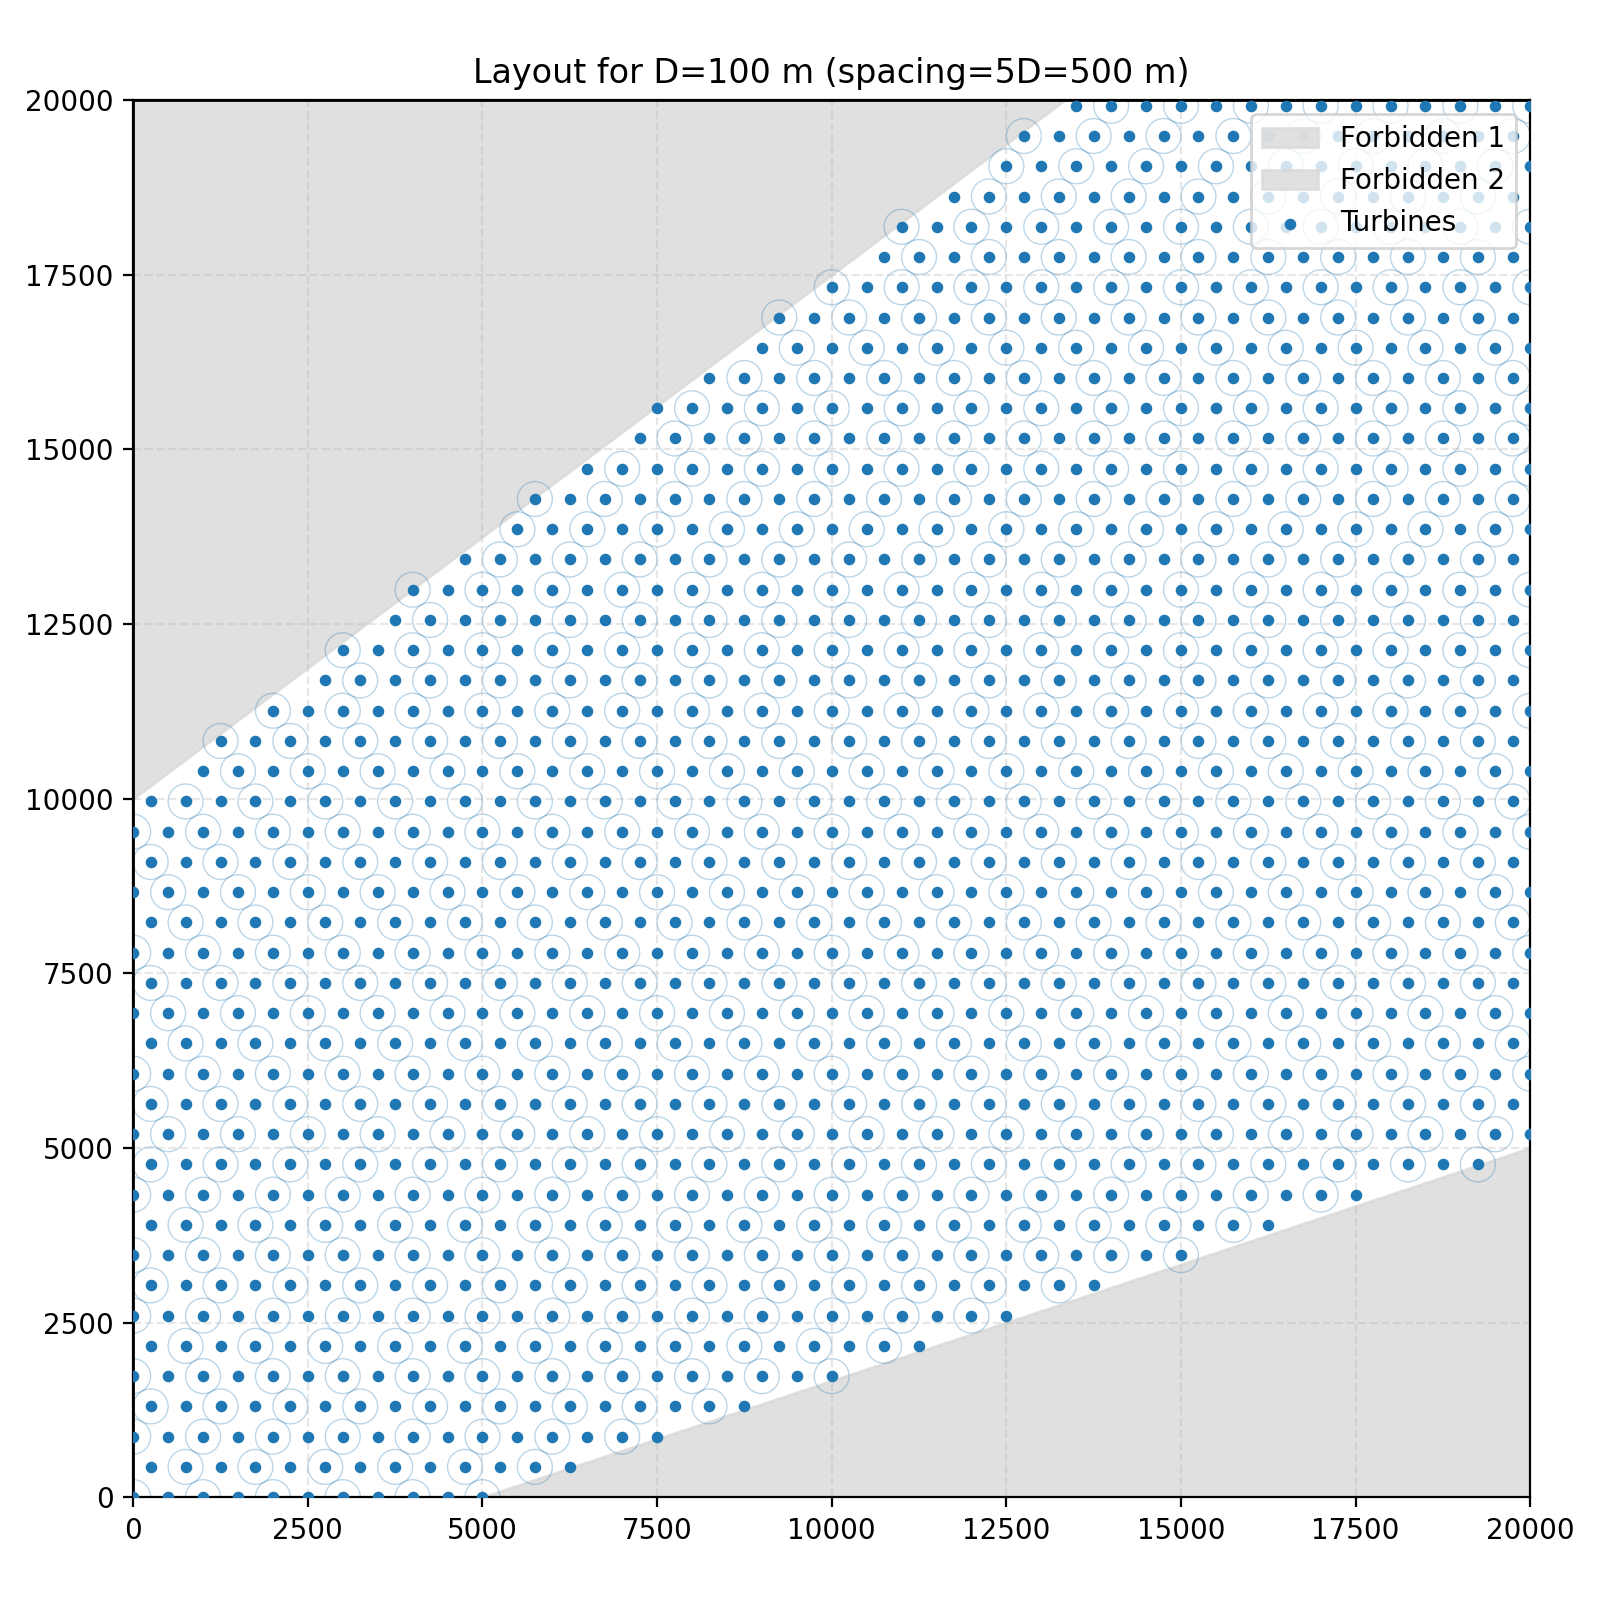
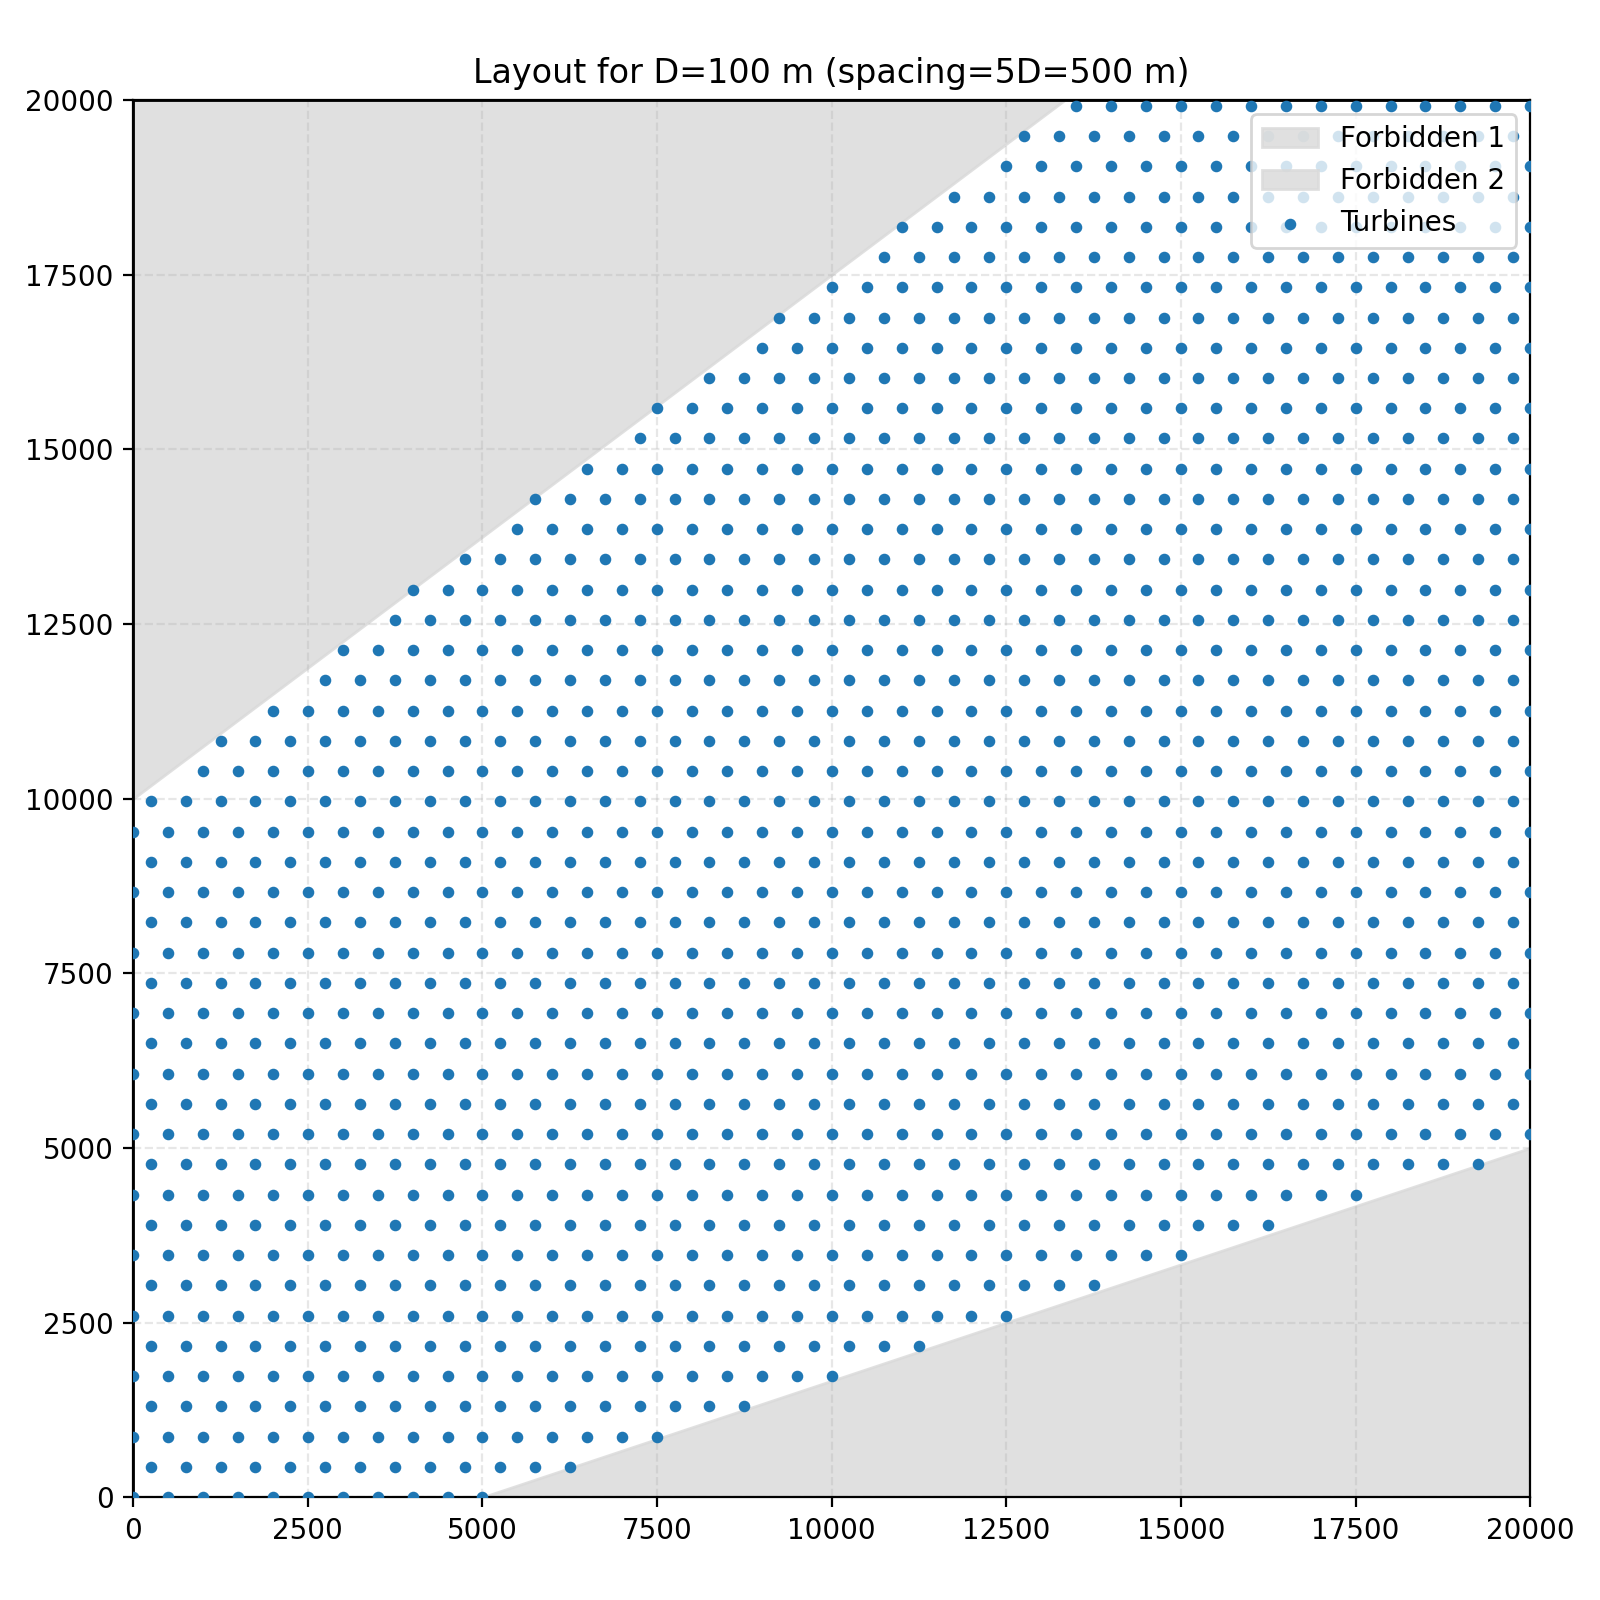
Update figures without circles

diff --git a/optimize_layout_q2_1.py b/optimize_layout_q2_1.py
@@ -224,11 +224,11 @@ def visualize_layout(D: float, centers: np.ndarray, forb: ForbiddenLines, outpat
     if len(centers) > 0:
         ax.scatter(centers[:, 0], centers[:, 1], s=10, c='tab:blue', label='Turbines', zorder=3)
         # Draw a subset of circles to avoid huge rendering cost if many points
-        max_circles = 500
-        step = max(1, len(centers) // max_circles)
-        for i in range(0, len(centers), step):
-            circ = plt.Circle((centers[i, 0], centers[i, 1]), r, color='tab:blue', fill=False, alpha=0.3, linewidth=0.5)
-            ax.add_patch(circ)
+        # max_circles = 500
+        # step = max(1, len(centers) // max_circles)
+        # for i in range(0, len(centers), step):
+        #     circ = plt.Circle((centers[i, 0], centers[i, 1]), r, color='tab:blue', fill=False, alpha=0.3, linewidth=0.5)
+        #     ax.add_patch(circ)
 
     ax.legend(loc='upper right')
     ax.grid(True, linestyle='--', alpha=0.3)
